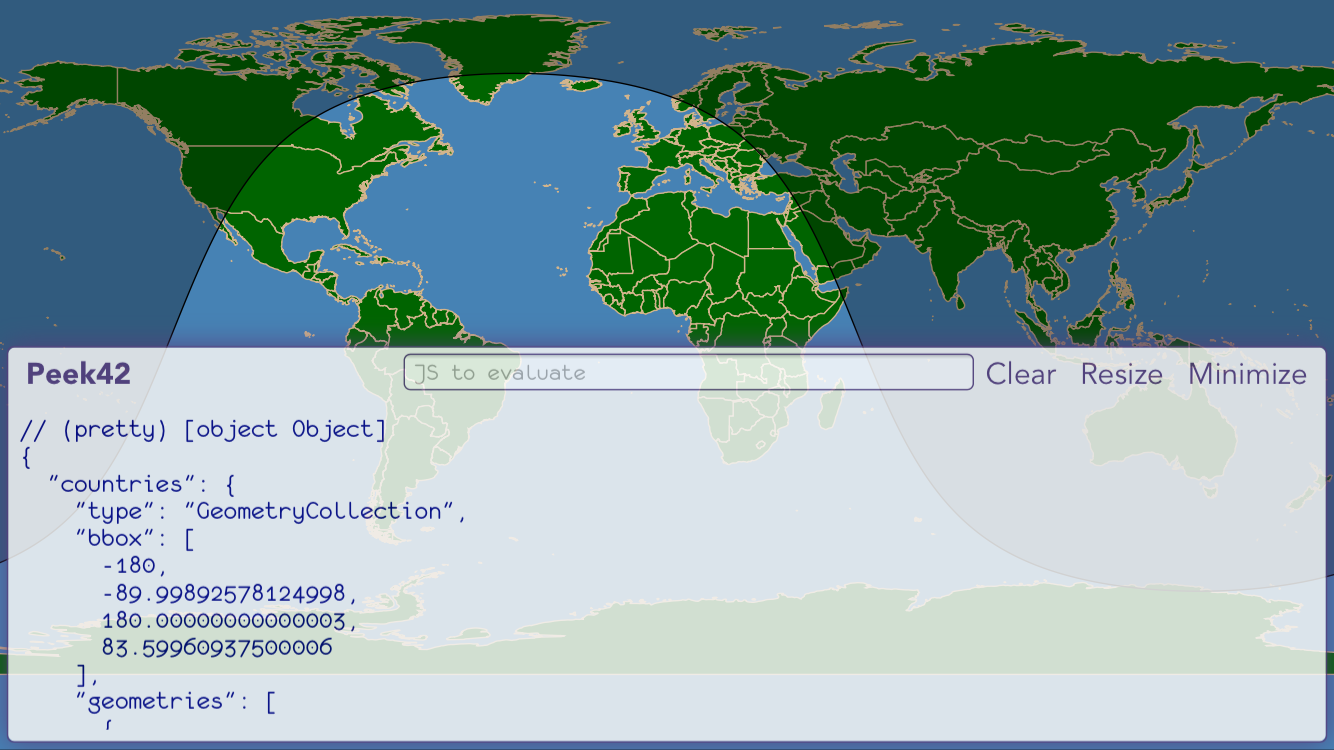
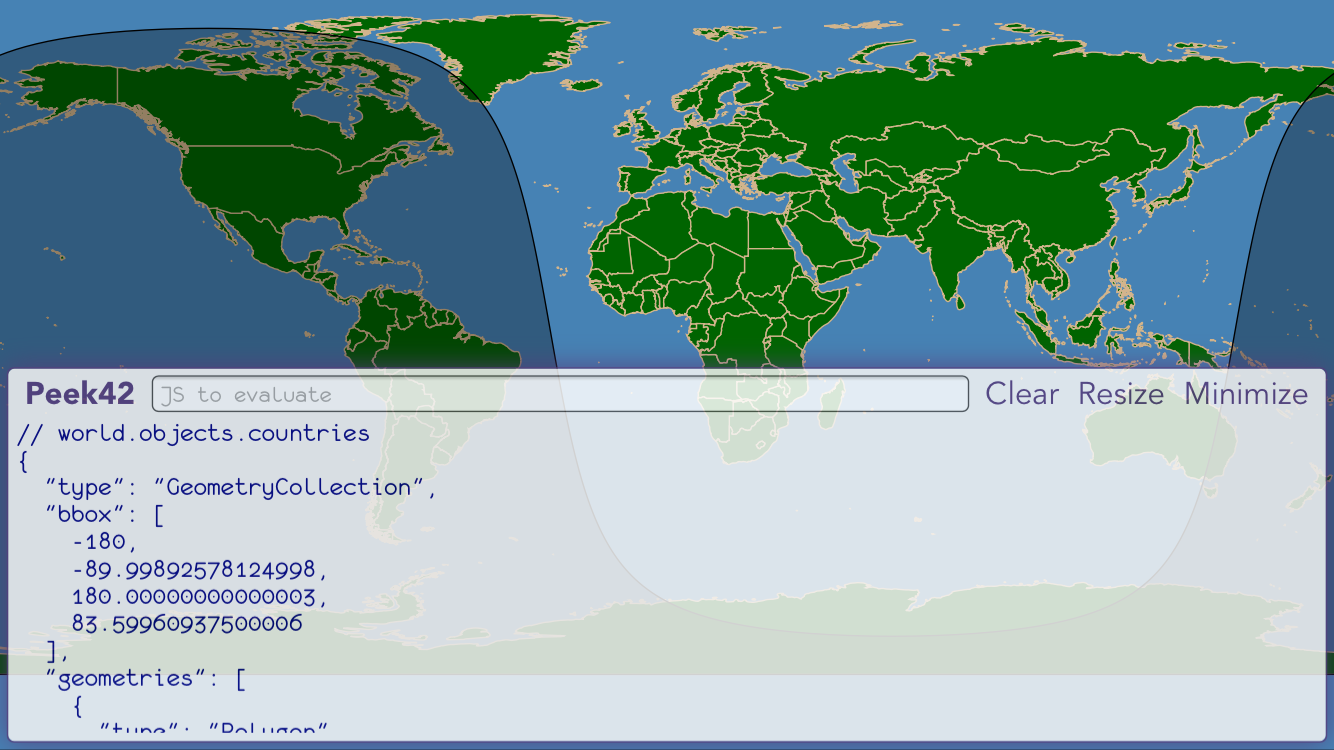
v5.2.0

diff --git a/example/peek42.browser.html b/example/peek42.browser.html
@@ -18,11 +18,15 @@
       autoUse: true
     };</script>-->
     <script src="../dist/peek42.browser.js"></script>
+    <script src="https://unpkg.com/babel-standalone@latest/babel.js"></script>
+    <script src="https://unpkg.com/source-map@latest/dist/source-map.js"></script>
+      <script>sourceMap.SourceMapConsumer.initialize({
+        'lib/mappings.wasm': 'https://unpkg.com/source-map@latest/lib/mappings.wasm'
+      });</script>
 
-    <script>(() => { 'use strict';
-document.addEventListener('DOMContentLoaded', () => {
-  p.api(document);
-});
+    <script type="text/babel">(async () => { 'use strict';
+//p.api(document);
+  boom
     })();</script>
   </head>
 

diff --git a/README.md b/README.md
@@ -37,7 +37,7 @@ All distribution files are in `node_modules/peek42/dist/`
 
 ### Browser
 
-(`monofur.woff` is expected to be next to `peek42.css`, `peek42-dark.css` and `apivis.browser.js` are optional)
+(`monofur.woff` is expected to be next to `peek42.css`, `peek42-dark.css`, `apivis.browser.js` and `source-map.js` are optional)
 
 ```html
 <link rel="stylesheet" href="https://unpkg.com/peek42@latest/dist/peek42.css" />
@@ -45,6 +45,10 @@ All distribution files are in `node_modules/peek42/dist/`
 
 <script src="https://unpkg.com/apivis@latest/dist/apivis.browser.js"></script>
 <script src="https://unpkg.com/peek42@latest/dist/peek42.browser.js"></script>
+<script src="https://unpkg.com/source-map@latest/dist/source-map.js"></script>
+  <script>sourceMap.SourceMapConsumer.initialize({
+    'lib/mappings.wasm': 'https://unpkg.com/source-map@latest/lib/mappings.wasm'
+  });</script>
 ```
 
 Configuration options can be specified by adding a script *before* `peek42.browser.js` (values shown are the defaults):

diff --git a/RELNOTES.md b/RELNOTES.md
@@ -1,5 +1,9 @@
 # Release Notes
 
+## 5.2.0
+
+- Show source traces for errors (using source maps if present and the [Source Map](https://github.com/mozilla/source-map) library loaded)
+
 ## 5.1.0
 
 - Add library config options
